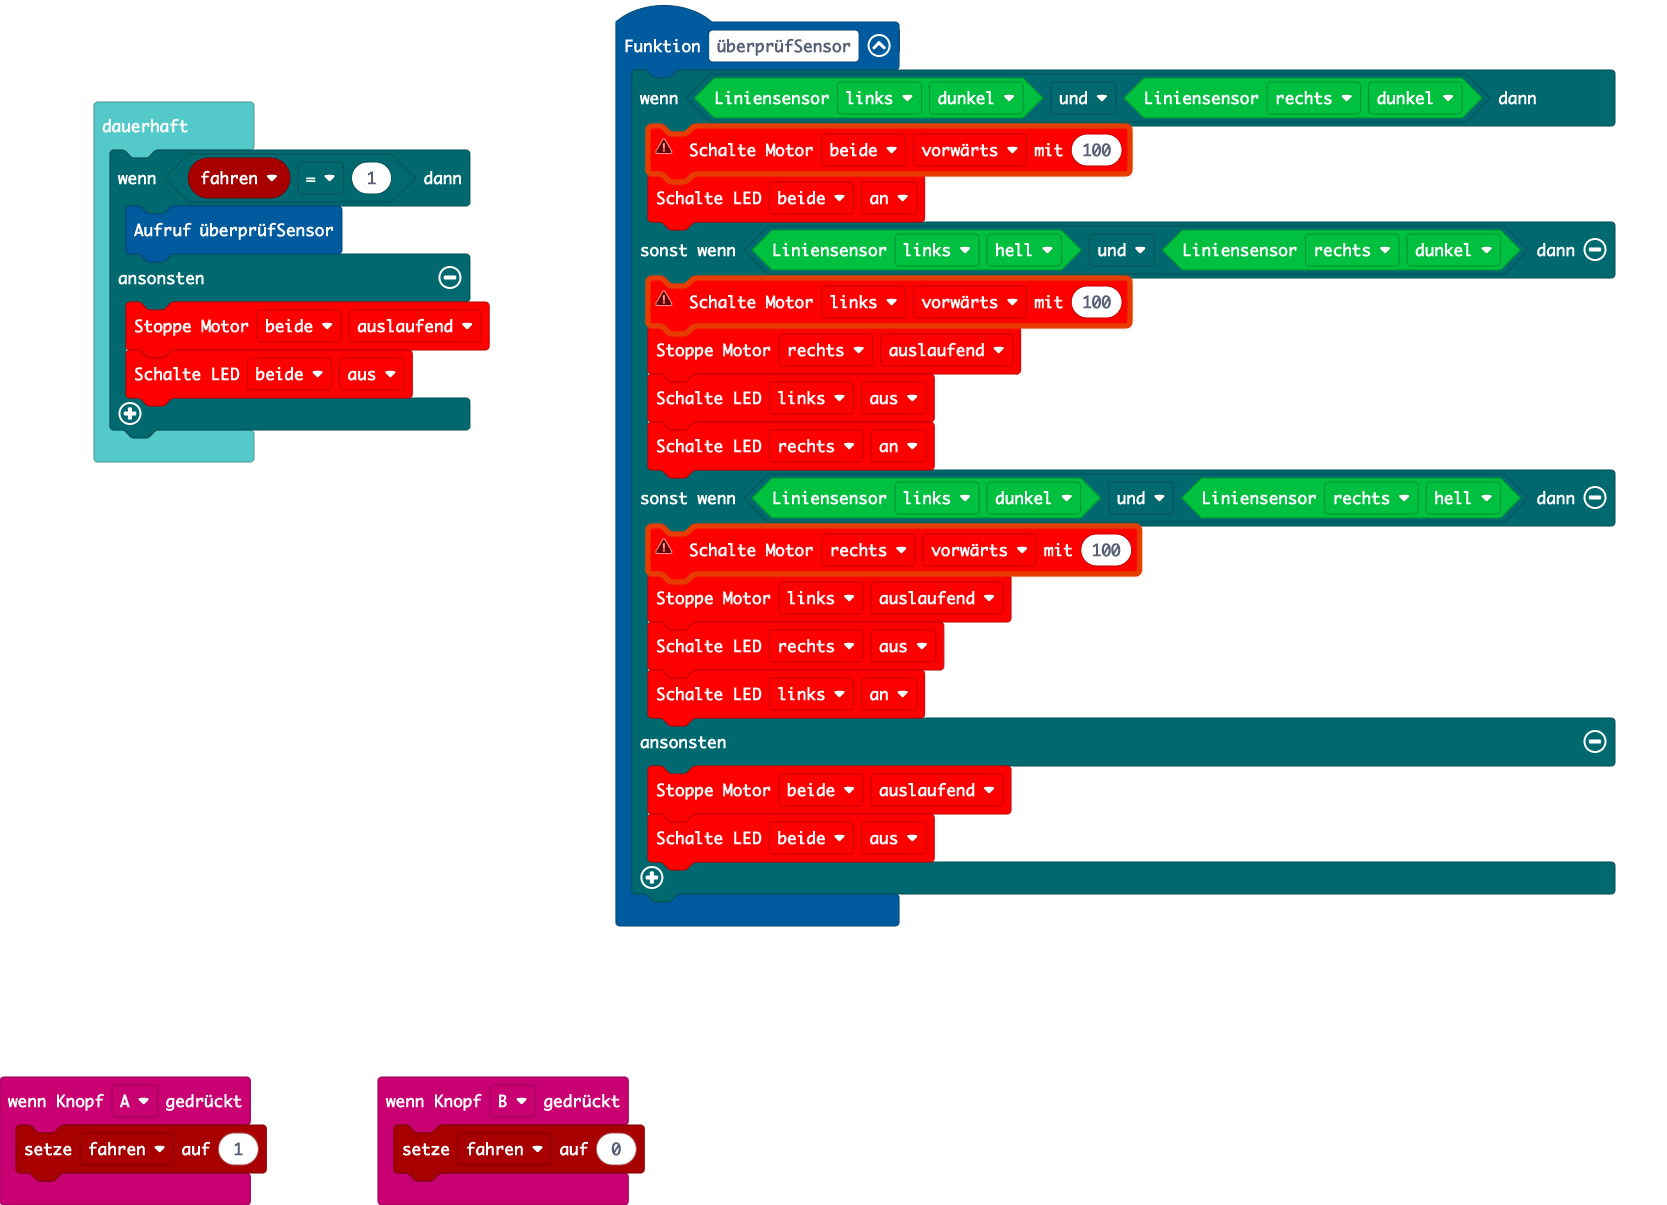
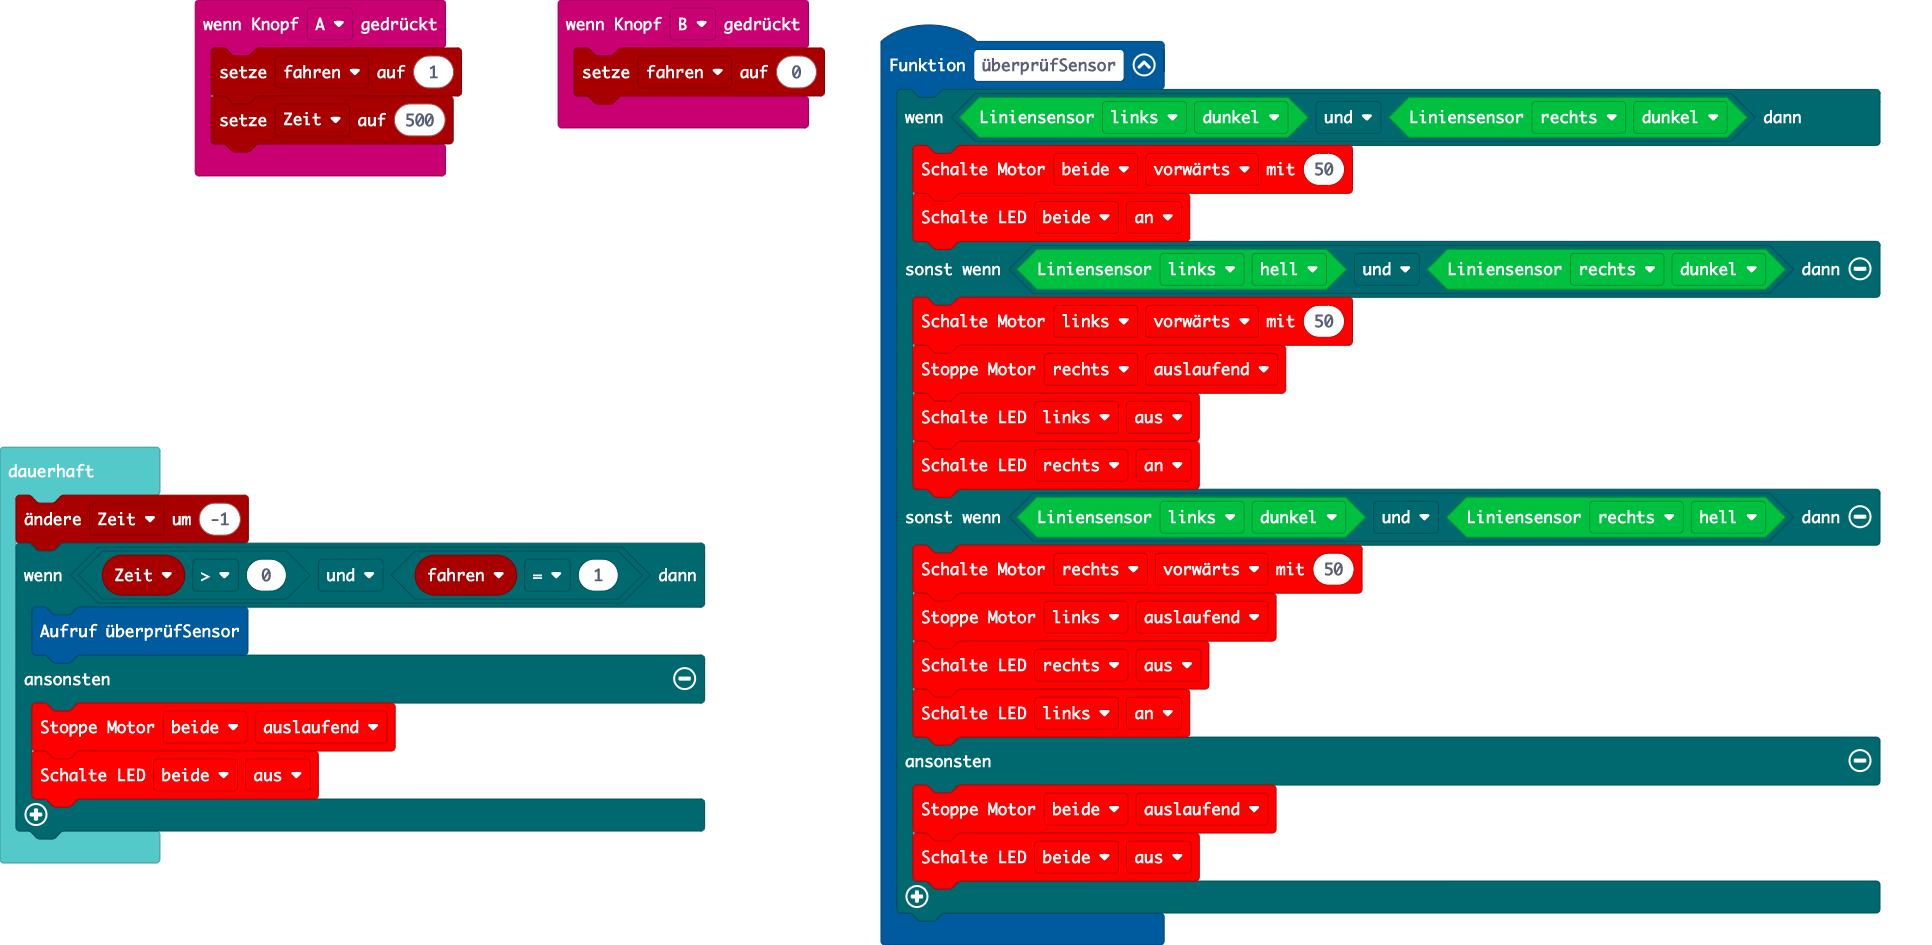
Aktualisiere main.blocks, main.ts, main.py

diff --git a/main.ts b/main.ts
@@ -1,21 +1,23 @@
 let fahren = 0
+let Zeit = 0
 input.onButtonPressed(Button.A, function () {
     fahren = 1
+    Zeit = 500
 })
 input.onButtonPressed(Button.B, function () {
     fahren = 0
 })
 function überprüfSensor () {
     if (callibot.readLineSensor(KSensor.links, KSensorStatus.dunkel) && callibot.readLineSensor(KSensor.rechts, KSensorStatus.dunkel)) {
-        callibot.motor(KMotor.beide, KDir.vorw&#228;rts, 100)
+        callibot.motor(KMotor.beide, KDir.vorwärts, 50)
         callibot.setLed(KMotor.beide, KState.an)
     } else if (callibot.readLineSensor(KSensor.links, KSensorStatus.hell) && callibot.readLineSensor(KSensor.rechts, KSensorStatus.dunkel)) {
-        callibot.motor(KMotor.links, KDir.vorw&#228;rts, 100)
+        callibot.motor(KMotor.links, KDir.vorwärts, 50)
         callibot.motorStop(KMotor.rechts, KStop.Frei)
         callibot.setLed(KMotor.links, KState.aus)
         callibot.setLed(KMotor.rechts, KState.an)
     } else if (callibot.readLineSensor(KSensor.links, KSensorStatus.dunkel) && callibot.readLineSensor(KSensor.rechts, KSensorStatus.hell)) {
-        callibot.motor(KMotor.rechts, KDir.vorw&#228;rts, 100)
+        callibot.motor(KMotor.rechts, KDir.vorwärts, 50)
         callibot.motorStop(KMotor.links, KStop.Frei)
         callibot.setLed(KMotor.rechts, KState.aus)
         callibot.setLed(KMotor.links, KState.an)
@@ -25,7 +27,8 @@ function überprüfSensor () {
     }
 }
 basic.forever(function () {
-    if (fahren == 1) {
+    Zeit += -1
+    if (Zeit > 0 && fahren == 1) {
         überprüfSensor()
     } else {
         callibot.motorStop(KMotor.beide, KStop.Frei)

diff --git a/main.py b/main.py
@@ -20,13 +20,19 @@ def überprüfSensor():
         callibot.set_led(KMotor.LINKS, KState.AUS)
         callibot.set_led(KMotor.RECHTS, KState.AN)
     elif callibot.read_line_sensor(KSensor.LINKS, KSensorStatus.DUNKEL) and callibot.read_line_sensor(KSensor.RECHTS, KSensorStatus.HELL):
-        callibot.motor(KMotor.RECHTS, KDir.VORWÄRTS, 100)
+        callibot.motor(KMotor.RECHTS, KDir.VORWÄRTS, 0)
         callibot.motor_stop(KMotor.LINKS, KStop.FREI)
         callibot.set_led(KMotor.RECHTS, KState.AUS)
         callibot.set_led(KMotor.LINKS, KState.AN)
     else:
         callibot.motor_stop(KMotor.BEIDE, KStop.FREI)
         callibot.set_led(KMotor.BEIDE, KState.AUS)
+def sucheLinie():
+    for index in range(10):
+        callibot.motor(KMotor.LINKS, KDir.VORWÄRTS, 50)
+        basic.pause(100)
+        callibot.motor(KMotor.RECHTS, KDir.VORWÄRTS, 50)
+        basic.pause(100)
 
 def on_forever():
     if fahren == 1:
